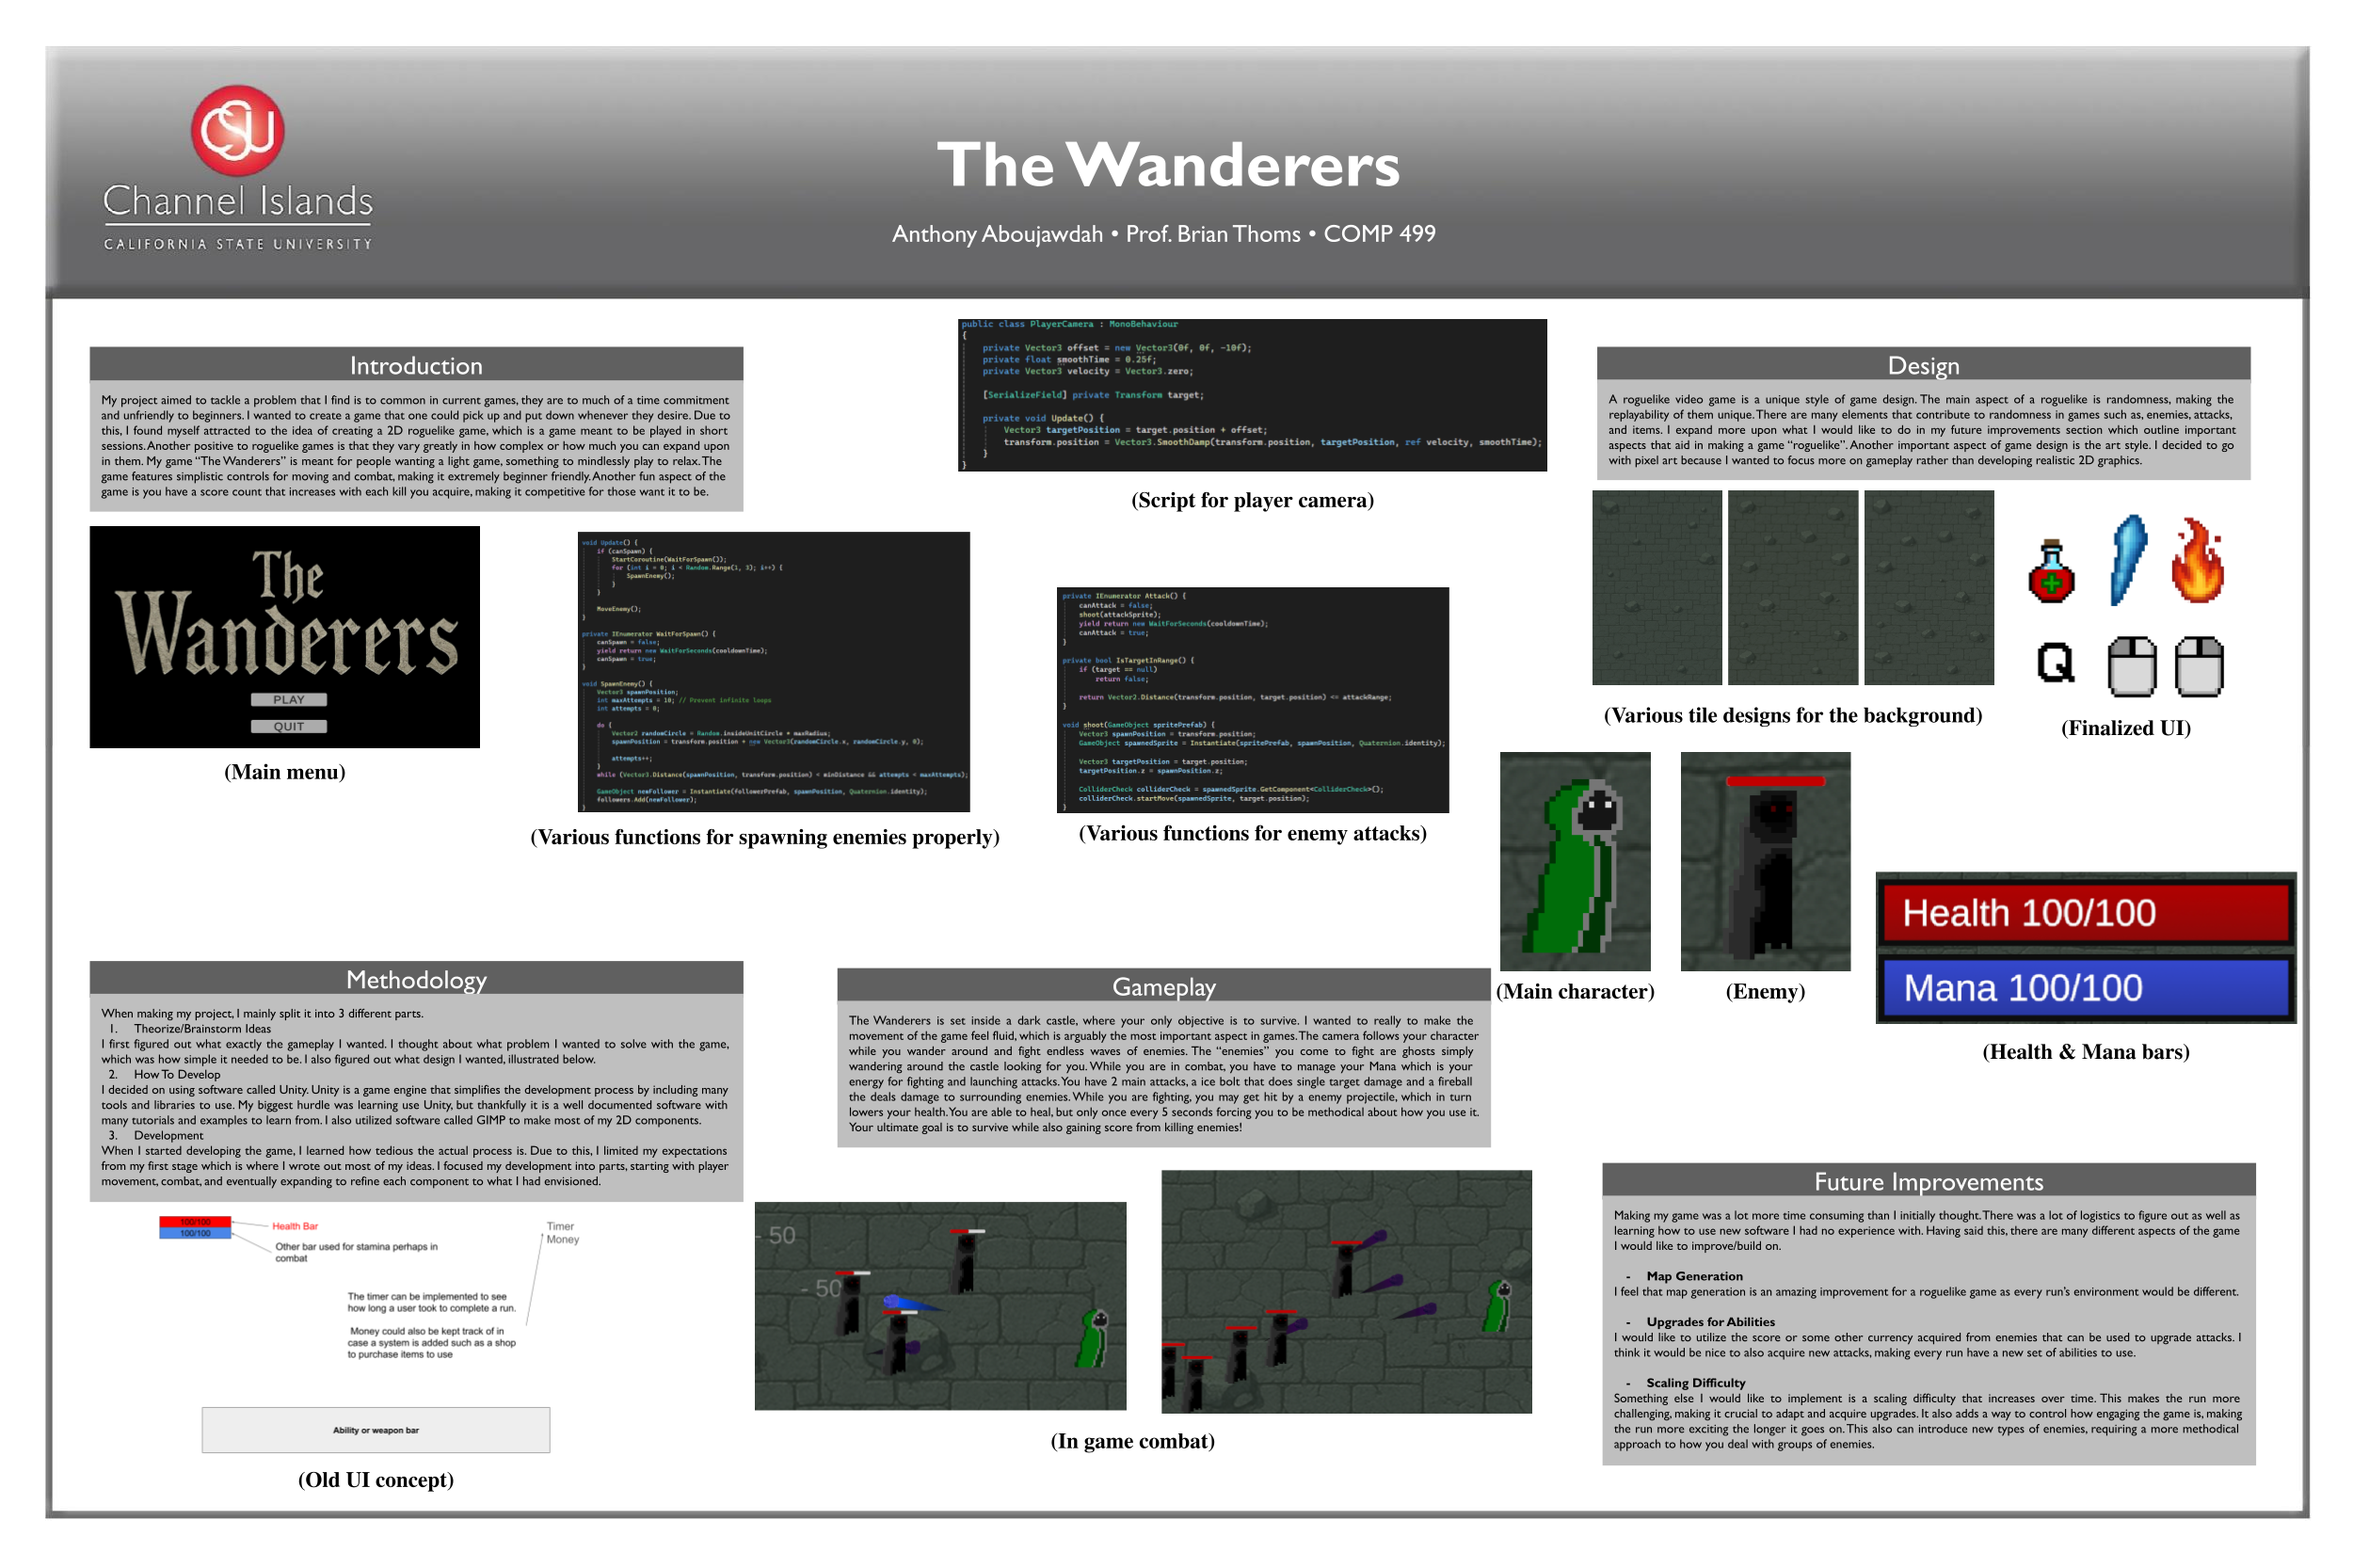
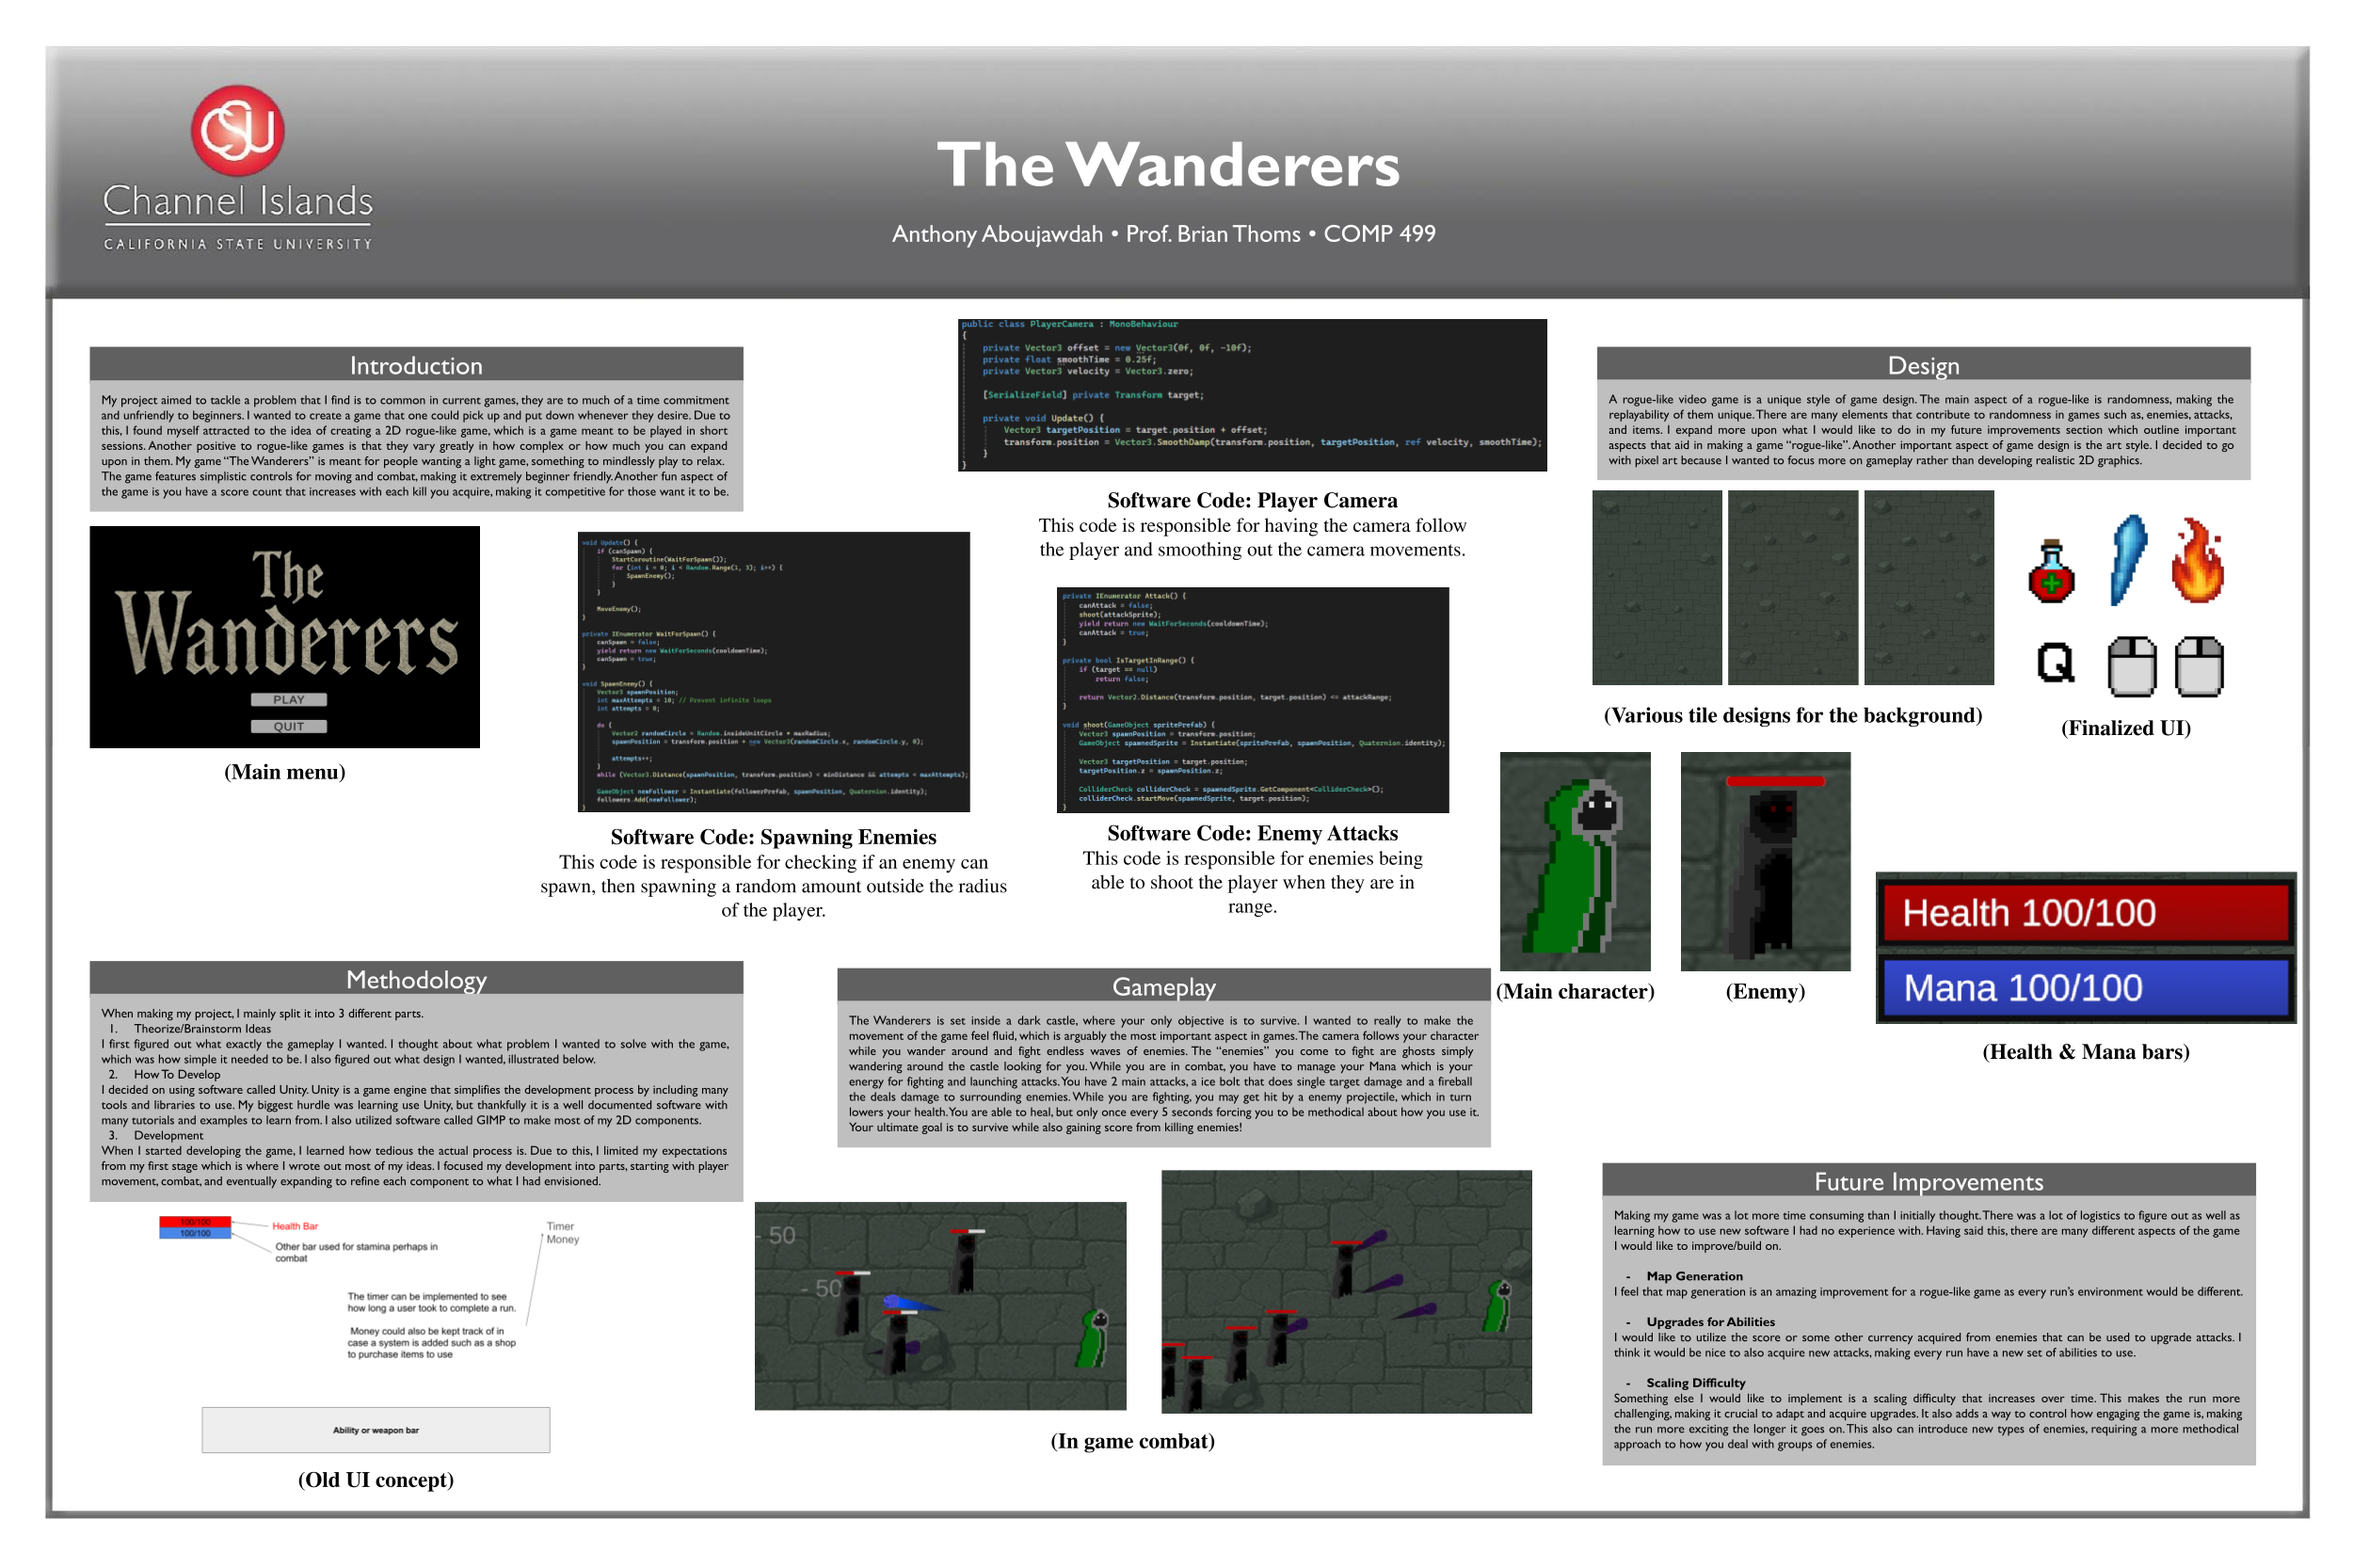
Updated poster

diff --git a/index.html b/index.html
@@ -18,8 +18,8 @@
         </p>
     </div>
     <div>
-        <a href="Images/Capstone Poster.png" target="_blank">
-            <img src="Images\Capstone Poster.png" style="width: 500px; height: auto;"/>
+        <a href="images/Capstone Poster.png" target="_blank">
+            <img src="images/Capstone Poster.png" style="width: 500px; height: auto;"/>
         </a>
     </div>
 </body>

diff --git a/styles.css b/styles.css
@@ -8,7 +8,7 @@
     }
     
     .menupicture {
-        background-image: url('menu.png');
+        background-image: url('images/menu.png');
         background-repeat: no-repeat;
         background-position: center;
         background-size: contain;
